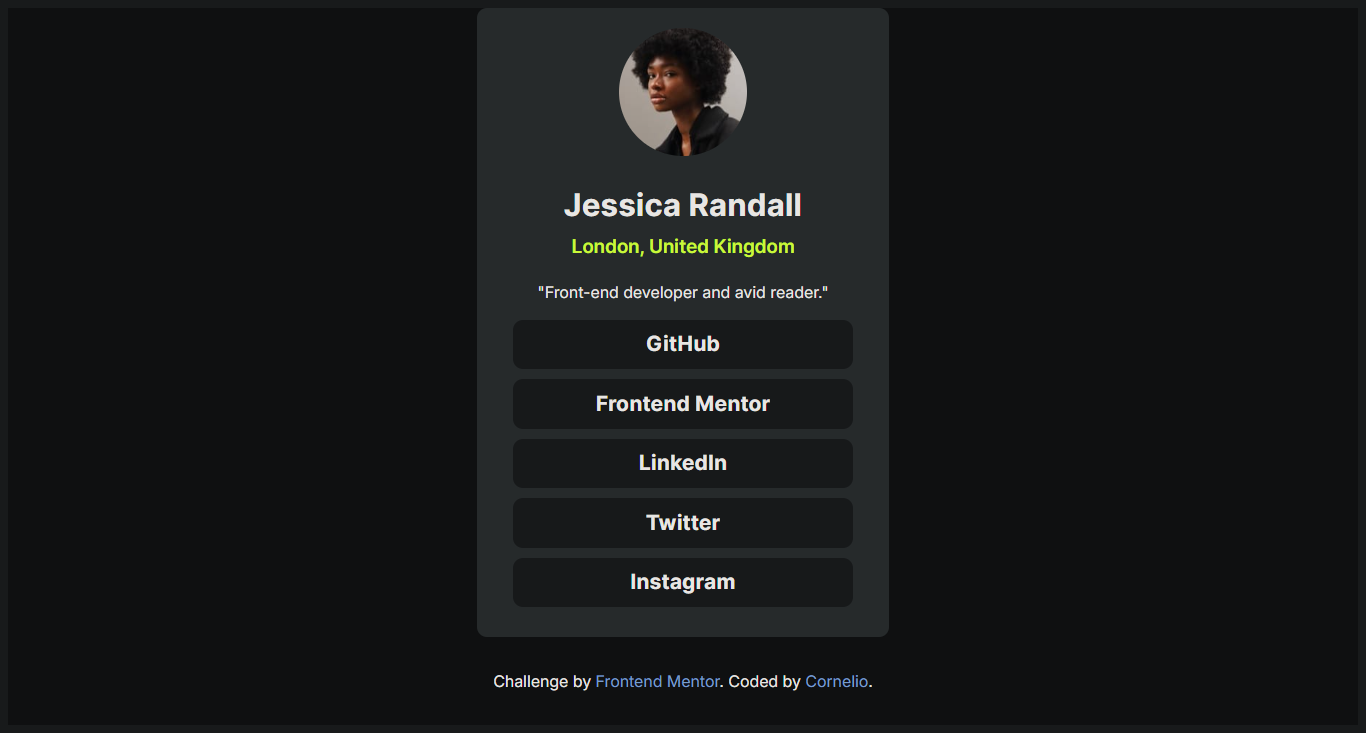
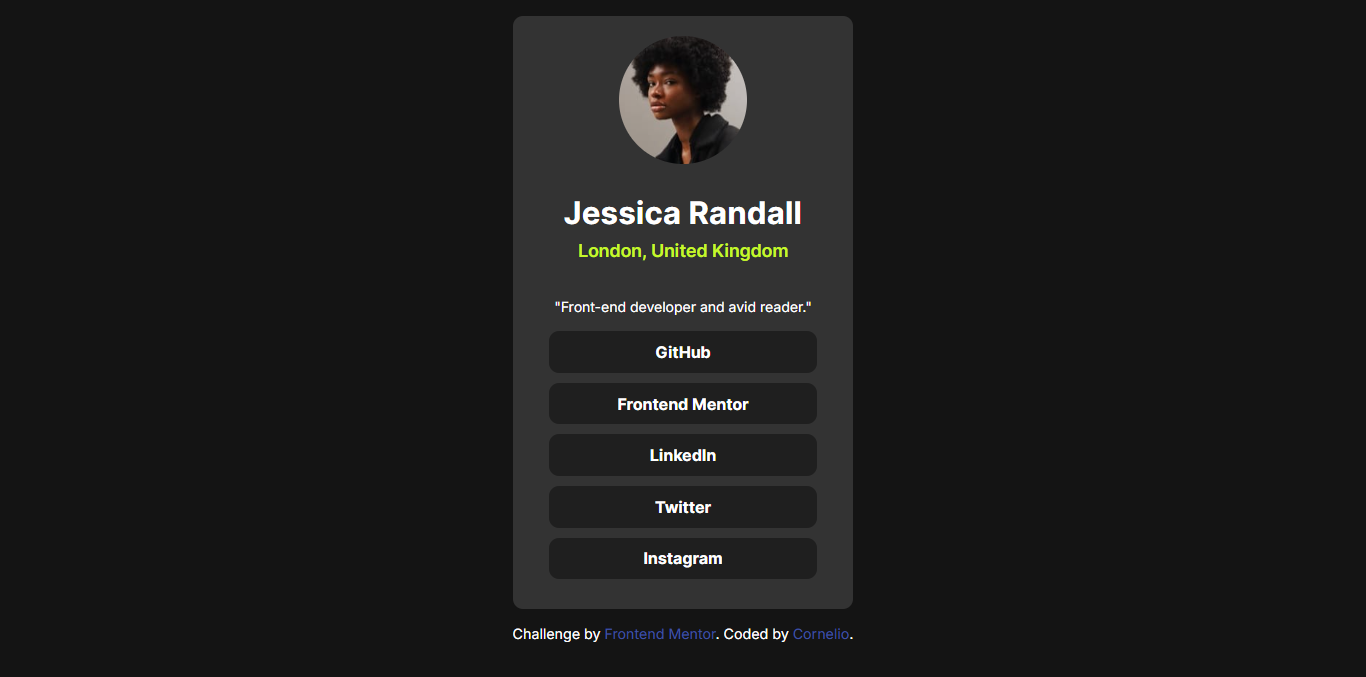
Resolve some unresponsive layout

Changed region(s): [[0.369, 0.031, 0.6457, 0.8375], [0.369, 0.8685, 0.6457, 0.9616]]

diff --git a/src/style.css b/src/style.css
@@ -1,31 +1,30 @@
-@import url('https://fonts.googleapis.com/css2?family=Inter:ital,opsz,wght@0,14..32,100..900;1,14..32,100..900&display=swap');
+@import url("https://fonts.googleapis.com/css2?family=Inter:ital,opsz,wght@0,14..32,100..900;1,14..32,100..900&display=swap");
 
 :root {
   --green: hsl(75, 94%, 57%);
   --white: hsl(0, 0%, 100%);
-  
+
   --grey-700: hsl(0, 0%, 20%);
   --grey-800: hsl(0, 0%, 12%);
   --grey-900: hsl(0, 0%, 8%);
 
-  --regular-font-weight: 400;  /*regular weight*/
+  --regular-font-weight: 400; /*regular weight*/
   --semi-bold-font-weight: 600; /* Semi-bold weight */
   --bold-font-weight: 700; /* Bold weight */
-
 }
-*, 
+*,
 *::before,
-*::after{
+*::after {
   box-sizing: border-box;
 }
-#app{
-  max-width: 90rem;
+html,
+body {
   margin: 0;
   padding: 0;
+  scroll-behavior: smooth;
 }
-
-body{
-  font-family: 'Inter', sans-serif;
+body {
+  font-family: "Inter", sans-serif;
   min-height: 100vh;
   line-height: 1.5;
   font-weight: var(--regular-font-weight);
@@ -36,10 +35,11 @@ body{
   text-rendering: optimizeLegibility;
   -webkit-font-smoothing: antialiased;
   -moz-osx-font-smoothing: grayscale;
+ 
 }
 img,
 video,
-iframe{
+iframe {
   max-inline-size: 100%;
   block-size: auto;
   aspect-ratio: 2/1;
@@ -54,7 +54,7 @@ img {
   margin: 0 auto;
   display: block;
 }
- h1{
+h1 {
   font-size: clamp(1.5rem, 1.3239rem + 0.7512vw, 2rem);
   font-weight: var(--bold-font-weight);
 }
@@ -64,7 +64,7 @@ ul {
   padding: 0;
   margin: 0 auto;
 }
-ul li {  
+ul li {
   background-color: var(--grey-800);
   padding: 0.55rem 1.25rem;
   margin: 0.625rem 0;
@@ -74,20 +74,17 @@ ul li {
 }
 ul li:hover {
   transform: translateY(-0.188rem);
-  box-shadow: 0 0.375rem  0.625rem rgba(0, 0, 0, 0.2);
+  box-shadow: 0 0.375rem 0.625rem rgba(0, 0, 0, 0.2);
   background-color: var(--green);
   cursor: pointer;
   .social-links {
-    color: var(--grey-900);
+    color: var(--grey-900); /*-- social links color when hover--*/
   }
 }
-section{
-  font-size: clamp(0.78rem, 0.7rem + 0.38vw, 1rem);
+section {
+  font-size: clamp(0.625rem, 0.7rem + 0.38vw, 0.875rem);
+  margin-top: 2rem;
 }
-nav{
+nav {
   padding: 0 1rem;
-}
-footer{
-  margin: auto;
-  padding: 1rem;
 }

diff --git a/src/components/Profile.vue b/src/components/Profile.vue
@@ -2,7 +2,7 @@
 
 <template>
   <main>
-    <div class="container">
+    <div class="card">
       <article>
         <div class="profile-card">
           <header>
@@ -52,13 +52,14 @@
 </template>
 
 <style scoped>
-.container {
+.card {
   display: flex;
   justify-content: space-between;
   align-items: center;
   text-align: center;
   flex-direction: column;
   width: fit-content;
+  margin: 1rem;
 }
 .profile-card {
   background-color: var(--grey-700);
@@ -68,18 +69,18 @@
 }
 .location {
   color: var(--green);
-  margin-top: -1.4rem;
+  margin-top: -1.6rem;
+  font-size: clamp(0.875rem, 0.775rem + 0.38vw, 1.25rem);
   font-weight: var(--semi-bold-font-weight);
-  font-size: clamp(0.875rem, 0.765rem + 0.4695vw, 1.1875rem);
 }
 .social-links {
   color: var(--white);
   text-decoration: none;
-  font-size: clamp(0.89rem, 0.73rem + 0.75vw, 1.33rem);
+  font-size: clamp(0.89rem, 0.73rem + 0.75vw, 1rem);
   font-weight: var(--bold-font-weight);
 }
 .attribution {
-  font-size: clamp(0.78rem, 0.7rem + 0.38vw, 1rem);
+  font-size: clamp(0.78rem, 0.7rem + 0.38vw, 0.89rem);
   text-align: center;
   transition: 0.4ms;
   margin-bottom: 1rem;

diff --git a/index.html b/index.html
@@ -2,7 +2,7 @@
 <html lang="en-US">
   <head>
     <meta charset="UTF-8" />
-    <link rel="icon" type="image/png" sizes="32x32" href="./assets/favicon-32x32.png" />
+    <link rel="icon" type="image/png" sizes="32x32" href="./src/assets/favicon-32x32.png" />
     <meta name="viewport" content="width=device-width, initial-scale=1.0" />
     <title>Frontend Mentor | Social links profile</title>
   </head>
